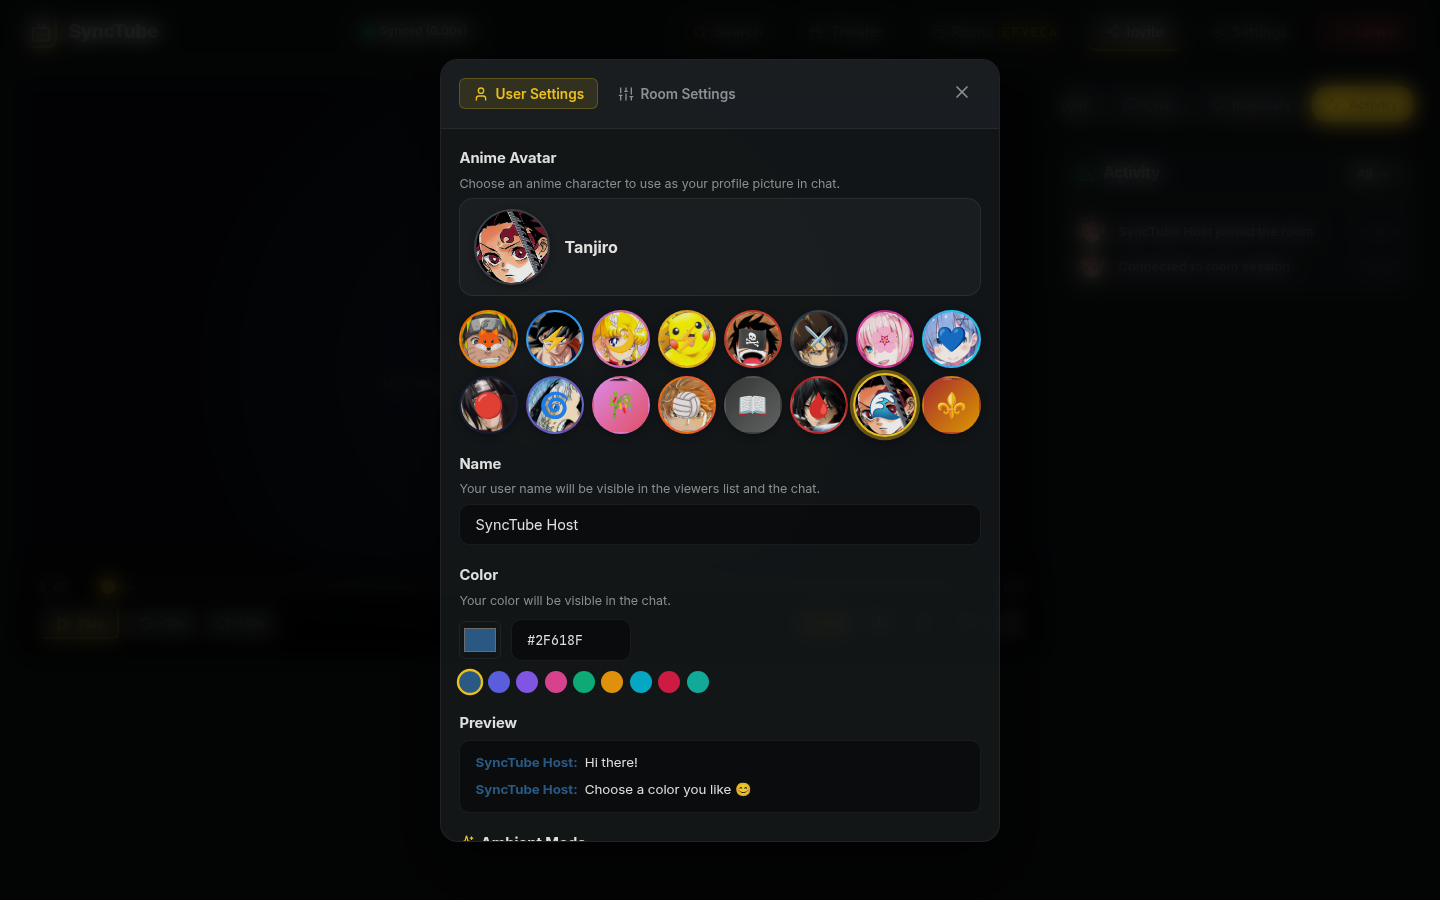
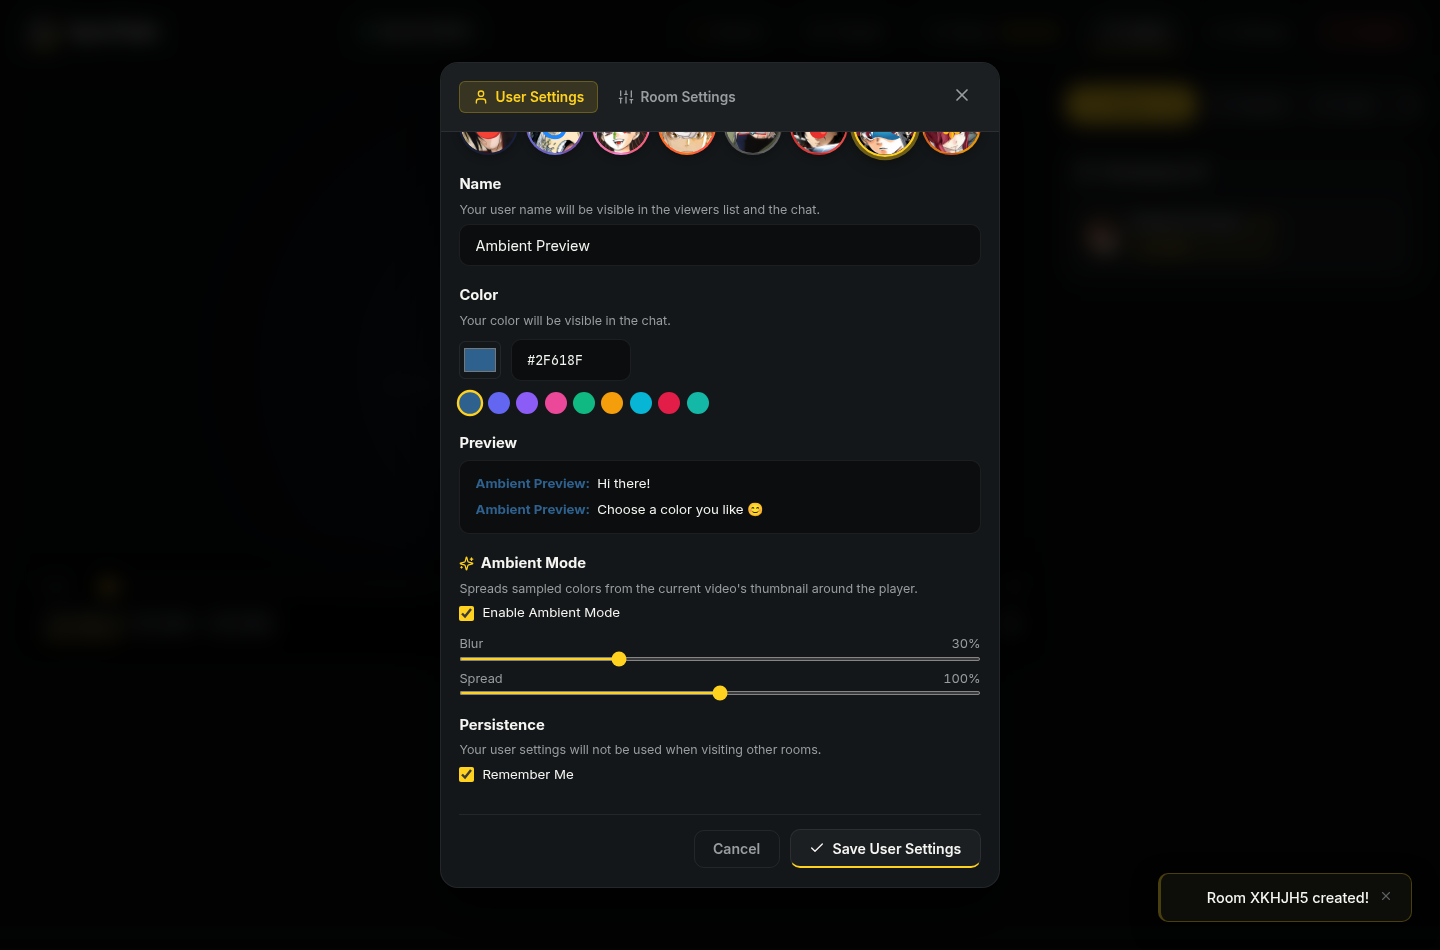
feat: enhance video ambient lighting

diff --git a/client/src/pages/RoomPage.tsx b/client/src/pages/RoomPage.tsx
@@ -134,7 +134,21 @@ export const RoomPage: React.FC<RoomPageProps> = ({
     const saved = localStorage.getItem('synctube_ambient_mode');
     return saved !== null ? saved === 'true' : true; // Default ON
   });
-  const [ambientPalette, setAmbientPalette] = useState({ primary: '#5b4bb7', secondary: '#1b5c72' });
+  const [ambientBlur, setAmbientBlur] = useState(() => {
+    const saved = localStorage.getItem('synctube_ambient_blur');
+    const value = saved === null ? 30 : Number(saved);
+    return Number.isFinite(value) && value >= 0 && value <= 100 ? value : 30;
+  });
+  const [ambientSpread, setAmbientSpread] = useState(() => {
+    const saved = localStorage.getItem('synctube_ambient_spread');
+    const value = saved === null ? 100 : Number(saved);
+    return Number.isFinite(value) && value >= 50 && value <= 150 ? value : 100;
+  });
+  const [ambientPalette, setAmbientPalette] = useState({
+    primary: '#5b4bb7',
+    secondary: '#1b5c72',
+    tertiary: '#285b53',
+  });
 
   const handleAmbientImageLoad = useCallback((event: React.SyntheticEvent<HTMLImageElement>) => {
     const image = event.currentTarget;
@@ -146,24 +160,41 @@ export const RoomPage: React.FC<RoomPageProps> = ({
       if (!context) return;
       context.drawImage(image, 0, 0, canvas.width, canvas.height);
       const pixels = context.getImageData(0, 0, canvas.width, canvas.height).data;
-      let red = 0;
-      let green = 0;
-      let blue = 0;
-      let count = 0;
-      for (let index = 0; index < pixels.length; index += 16) {
-        red += pixels[index];
-        green += pixels[index + 1];
-        blue += pixels[index + 2];
-        count += 1;
-      }
-      if (!count) return;
-      const average = [red, green, blue].map((value) => Math.round(value / count));
-      const primary = `rgb(${average[0]}, ${average[1]}, ${average[2]})`;
-      const secondary = `rgb(${Math.round(average[2] * 0.7)}, ${Math.round(average[0] * 0.55)}, ${Math.round(average[1] * 0.65)})`;
-      setAmbientPalette({ primary, secondary });
+      const sampleRegion = (startX: number, endX: number, startY: number, endY: number) => {
+        let red = 0;
+        let green = 0;
+        let blue = 0;
+        let count = 0;
+        for (let y = startY; y < endY; y += 1) {
+          for (let x = startX; x < endX; x += 1) {
+            const index = (y * canvas.width + x) * 4;
+            red += pixels[index];
+            green += pixels[index + 1];
+            blue += pixels[index + 2];
+            count += 1;
+          }
+        }
+        if (!count) return null;
+        return `rgb(${Math.round(red / count)}, ${Math.round(green / count)}, ${Math.round(blue / count)})`;
+      };
+      const primary = sampleRegion(0, 8, 2, 12);
+      const secondary = sampleRegion(16, 24, 2, 12);
+      const tertiary = sampleRegion(7, 17, 8, 14);
+      if (!primary || !secondary || !tertiary) return;
+      setAmbientPalette({ primary, secondary, tertiary });
     } catch {
       // YouTube may disallow canvas sampling; the image backdrop remains the fallback.
     }
+  }, []);
+
+  const handleAmbientBlurChange = useCallback((value: number) => {
+    setAmbientBlur(value);
+    localStorage.setItem('synctube_ambient_blur', String(value));
+  }, []);
+
+  const handleAmbientSpreadChange = useCallback((value: number) => {
+    setAmbientSpread(value);
+    localStorage.setItem('synctube_ambient_spread', String(value));
   }, []);
 
   const handleToggleAmbientMode = useCallback(() => {
@@ -1049,6 +1080,9 @@ export const RoomPage: React.FC<RoomPageProps> = ({
             style={{
               '--ambient-primary': ambientPalette.primary,
               '--ambient-secondary': ambientPalette.secondary,
+              '--ambient-tertiary': ambientPalette.tertiary,
+              '--ambient-blur': `${ambientBlur * 1.2}px`,
+              '--ambient-spread': ambientSpread / 100,
             } as React.CSSProperties}
           >
           {/* Ambient Mode Backdrop — only shown after server confirms state */}
@@ -1281,6 +1315,10 @@ export const RoomPage: React.FC<RoomPageProps> = ({
         onDeleteRoom={handleDeleteRoom}
         ambientMode={ambientMode}
         onToggleAmbientMode={handleToggleAmbientMode}
+        ambientBlur={ambientBlur}
+        ambientSpread={ambientSpread}
+        onAmbientBlurChange={handleAmbientBlurChange}
+        onAmbientSpreadChange={handleAmbientSpreadChange}
       />
 
       {/* Floating Animated Emojis & Live Reaction Dock */}

diff --git a/client/src/index.css b/client/src/index.css
@@ -533,36 +533,37 @@ body {
   position: relative;
   width: 100%;
   max-width: 100%;
-  overflow: hidden;
+  overflow: visible;
   border-radius: var(--r-xl);
+  isolation: isolate;
 }
 
 /* Ambient backdrop */
 .ambient-backdrop {
   position: absolute;
-  inset: -28px -40px;
+  inset: -18% -28%;
   z-index: 0;
   pointer-events: none;
   overflow: hidden;
   border-radius: calc(var(--r-xl) + 28px);
-  filter: blur(60px) saturate(180%) brightness(1.1);
-  opacity: 0.72;
-  transform: translateZ(0);
+  filter: blur(var(--ambient-blur, 36px)) saturate(190%) brightness(1.12);
+  opacity: 0.9;
+  transform: scale(var(--ambient-spread, 1)) translateZ(0);
   background:
-    radial-gradient(circle at 18% 22%, color-mix(in srgb, var(--ambient-primary, #5b4bb7) 70%, transparent), transparent 55%),
-    radial-gradient(circle at 82% 76%, color-mix(in srgb, var(--ambient-secondary, #1b5c72) 68%, transparent), transparent 58%);
-  transition: opacity 0.8s ease, filter 0.8s ease, background 0.8s ease;
-  will-change: transform, opacity;
+    radial-gradient(ellipse at 14% 48%, color-mix(in srgb, var(--ambient-primary, #5b4bb7) 92%, transparent), transparent 54%),
+    radial-gradient(ellipse at 86% 46%, color-mix(in srgb, var(--ambient-secondary, #1b5c72) 88%, transparent), transparent 54%),
+    radial-gradient(ellipse at 50% 100%, color-mix(in srgb, var(--ambient-tertiary, #285b53) 76%, transparent), transparent 58%);
+  transition: opacity 0.8s ease, filter 0.35s ease, transform 0.35s ease, background 0.8s ease;
+  will-change: opacity;
 }
 
 .ambient-backdrop-img {
   position: absolute;
-  top: -20%;
-  left: -20%;
-  width: 140%;
-  height: 140%;
+  inset: 0;
+  width: 100%;
+  height: 100%;
   object-fit: cover;
-  transform: scale(1.1);
+  opacity: 0.66;
   user-select: none;
   pointer-events: none;
 }
@@ -572,9 +573,9 @@ body {
   inset: 0;
   background: radial-gradient(
     ellipse at center,
-    transparent 0%,
-    rgba(11, 13, 14, 0.38) 55%,
-    rgba(11, 13, 14, 0.82) 100%
+    rgba(11, 13, 14, 0.04) 0%,
+    rgba(11, 13, 14, 0.18) 45%,
+    rgba(11, 13, 14, 0.52) 100%
   );
   pointer-events: none;
 }
@@ -584,9 +585,40 @@ body {
 }
 
 @keyframes ambientBreathing {
-  0%   { opacity: 0.62; filter: blur(55px) saturate(165%) brightness(1.05); transform: scale(1); }
-  50%  { opacity: 0.82; filter: blur(72px) saturate(215%) brightness(1.2); transform: scale(1.035); }
-  100% { opacity: 0.68; filter: blur(62px) saturate(185%) brightness(1.1); transform: scale(1.015); }
+  0%   { opacity: 0.82; }
+  100% { opacity: 0.98; }
+}
+
+.ambient-light-controls {
+  display: flex;
+  flex-direction: column;
+  gap: 0.5rem;
+  margin-top: 0.35rem;
+}
+
+.ambient-light-control {
+  display: flex;
+  flex-direction: column;
+  gap: 0.2rem;
+  color: var(--text-main);
+  font-size: 0.8rem;
+}
+
+.ambient-light-control-heading {
+  display: flex;
+  justify-content: space-between;
+  color: var(--text-muted);
+}
+
+.ambient-light-control-heading output {
+  font-variant-numeric: tabular-nums;
+}
+
+.ambient-light-control input[type="range"] {
+  width: 100%;
+  height: 4px;
+  accent-color: var(--accent);
+  cursor: pointer;
 }
 
 .stage-card {
@@ -1801,10 +1833,10 @@ body {
     height: 34px;
   }
 
-  /* Ambient backdrop constrained on mobile */
+  /* Keep a restrained color glow around the edge-to-edge mobile player. */
   .ambient-backdrop {
-    inset: 0 !important;
-    filter: blur(24px) saturate(150%) brightness(1.1);
+    inset: -8% -10%;
+    filter: blur(var(--ambient-blur, 36px)) saturate(165%) brightness(1.08);
   }
 
   /* Hide ambient label text on mobile */

diff --git a/client/src/components/SettingsModal.tsx b/client/src/components/SettingsModal.tsx
@@ -14,6 +14,10 @@ interface SettingsModalProps {
   onDeleteRoom: () => void;
   ambientMode?: boolean;
   onToggleAmbientMode?: () => void;
+  ambientBlur?: number;
+  ambientSpread?: number;
+  onAmbientBlurChange?: (value: number) => void;
+  onAmbientSpreadChange?: (value: number) => void;
 }
 
 const PRESET_COLORS = [
@@ -46,6 +50,10 @@ export const SettingsModal: React.FC<SettingsModalProps> = ({
   onDeleteRoom,
   ambientMode = true,
   onToggleAmbientMode,
+  ambientBlur = 30,
+  ambientSpread = 100,
+  onAmbientBlurChange,
+  onAmbientSpreadChange,
 }) => {
   const [activeTab, setActiveTab] = useState<'user' | 'room'>('user');
   const [localUser, setLocalUser] = useState<UserSettings>(userSettings);
@@ -228,7 +236,7 @@ export const SettingsModal: React.FC<SettingsModalProps> = ({
                     <span>Ambient Mode</span>
                   </label>
                   <p className="settings-description">
-                    Projects a soft, dynamic glow of the video's colors around the player like YouTube.
+                    Spreads sampled colors from the current video's thumbnail around the player.
                   </p>
                   <label className="checkbox-row" style={{ cursor: 'pointer' }}>
                     <input
@@ -238,6 +246,38 @@ export const SettingsModal: React.FC<SettingsModalProps> = ({
                     />
                     <span>Enable Ambient Mode</span>
                   </label>
+                  {ambientMode && (
+                    <div className="ambient-light-controls">
+                      <label className="ambient-light-control" htmlFor="ambient-blur">
+                        <span className="ambient-light-control-heading">
+                          <span>Blur</span>
+                          <output htmlFor="ambient-blur">{ambientBlur}%</output>
+                        </span>
+                        <input
+                          id="ambient-blur"
+                          type="range"
+                          min="0"
+                          max="100"
+                          value={ambientBlur}
+                          onChange={(event) => onAmbientBlurChange?.(Number(event.target.value))}
+                        />
+                      </label>
+                      <label className="ambient-light-control" htmlFor="ambient-spread">
+                        <span className="ambient-light-control-heading">
+                          <span>Spread</span>
+                          <output htmlFor="ambient-spread">{ambientSpread}%</output>
+                        </span>
+                        <input
+                          id="ambient-spread"
+                          type="range"
+                          min="50"
+                          max="150"
+                          value={ambientSpread}
+                          onChange={(event) => onAmbientSpreadChange?.(Number(event.target.value))}
+                        />
+                      </label>
+                    </div>
+                  )}
                 </div>
               )}
 

diff --git a/README.md b/README.md
@@ -72,7 +72,7 @@ The invite image contains a temporary room code and a local development link. Cr
 - Hosts and moderators can control playback; participants can send action requests for host/moderator approval.
 - Choose available YouTube playback quality, toggle captions, mute locally, and use supported playback-speed controls.
 - See a live sync-quality indicator and use the resync action when needed.
-- Use fullscreen and theater (dimmed-page) modes. **Ambient mode** adds a soft color glow based on the current video's thumbnail.
+- Use fullscreen and theater (dimmed-page) modes. **Ambient mode** spreads color sampled from the current video's thumbnail around the player, with adjustable blur and spread controls.
 - On phones, use the separate playback dock designed for touch screens.
 
 YouTube itself controls the embedded player, including video availability, ads, autoplay restrictions, captions, and supported quality levels.
